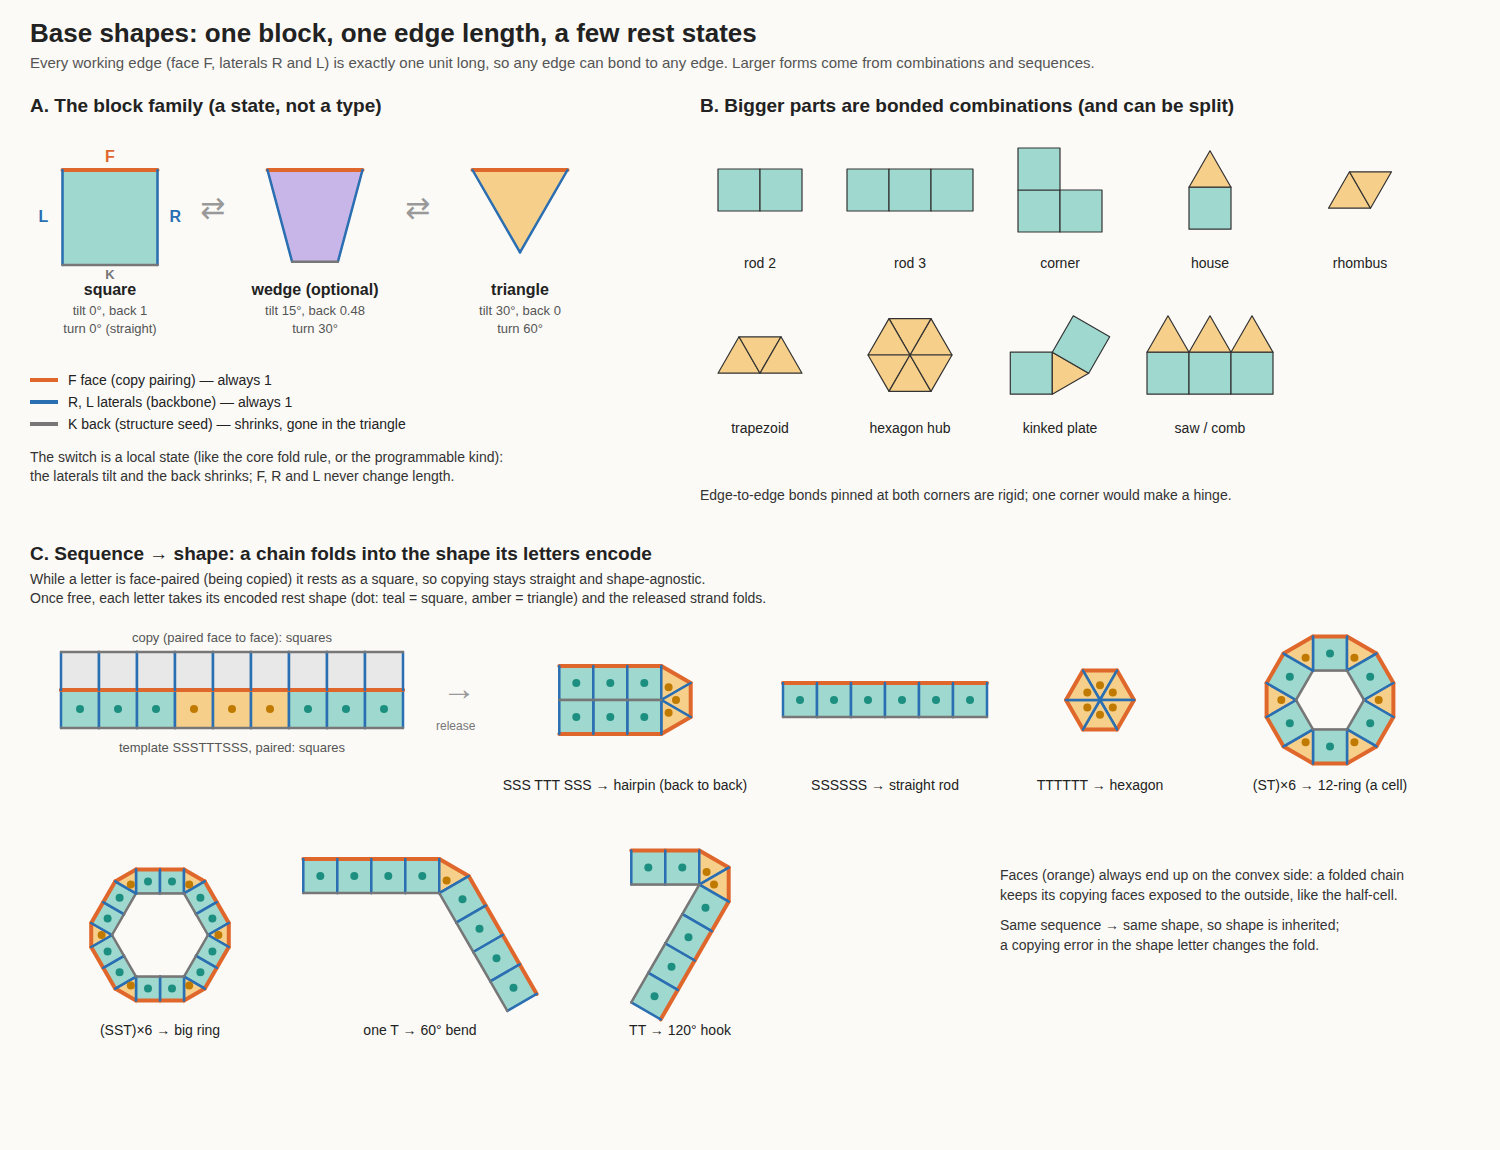
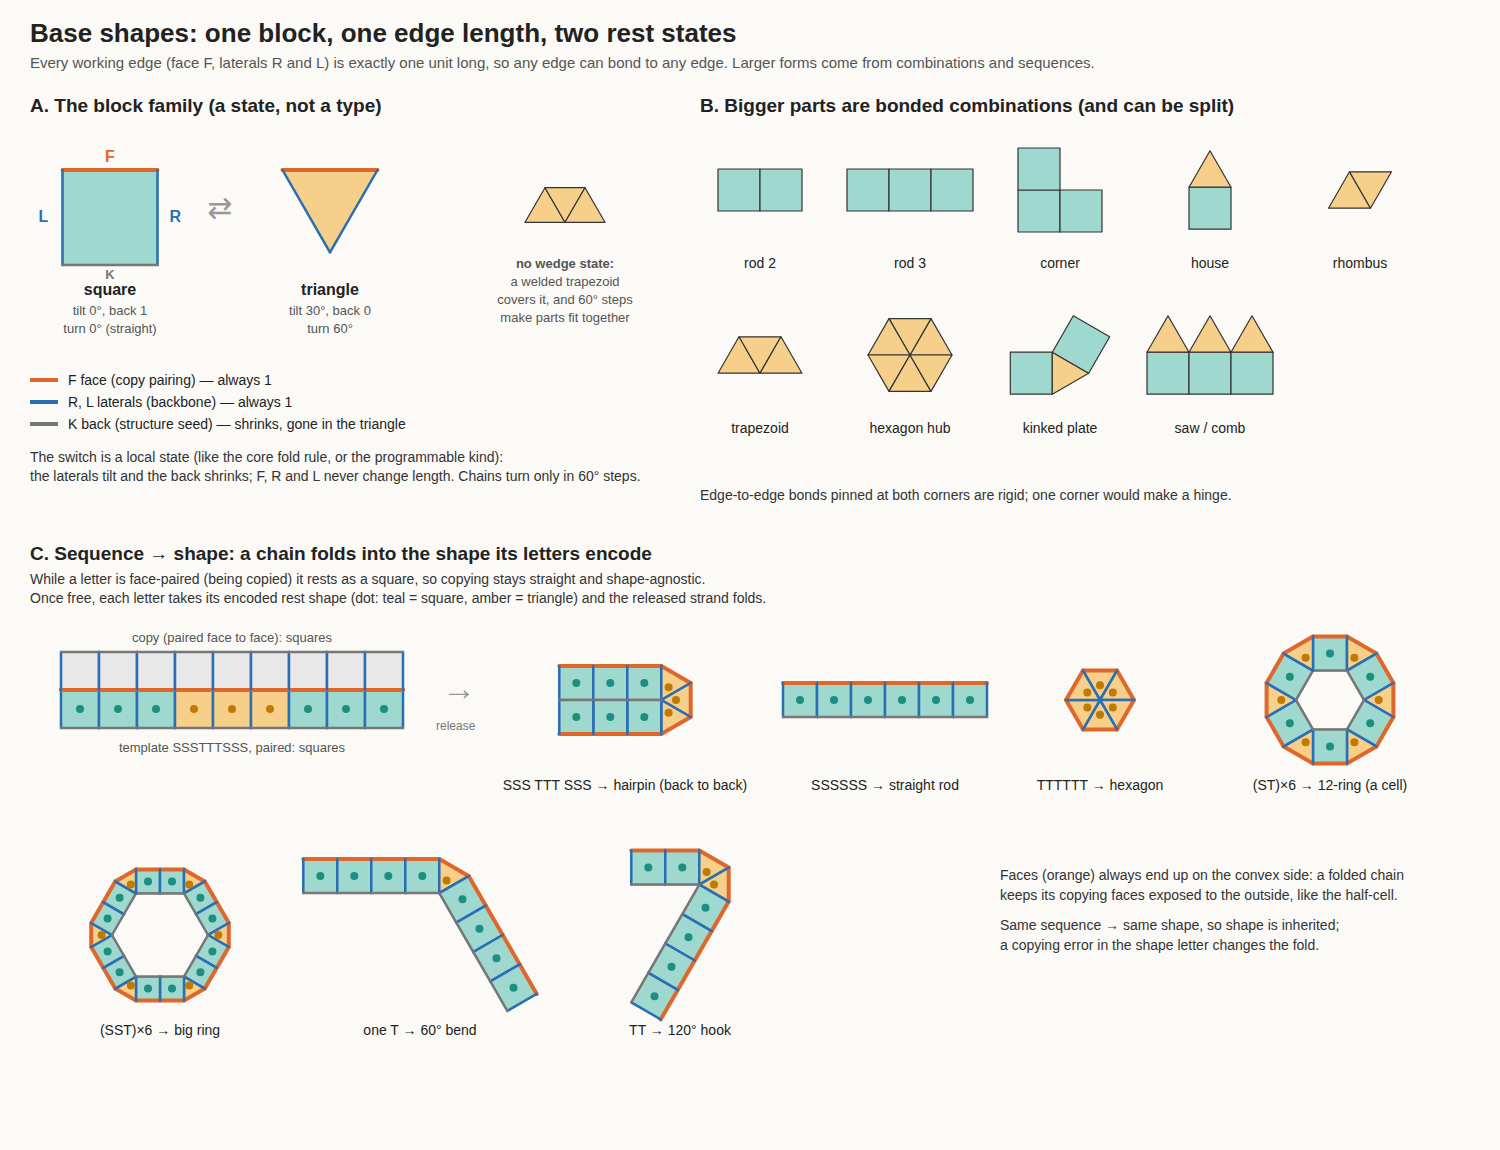
Shape alphabet: drop the wedge state (welded trapezoid instead; 60-degree steps fit together)
Claude-Session: https://claude.ai/code/session_01VtpG8Ywug1D5xVMLg9cFXu

diff --git a/experiments/shape_alphabet_figure.js b/experiments/shape_alphabet_figure.js
@@ -3,7 +3,7 @@
 // One 4-cornered block family: face F and laterals R, L always have unit length (always attachable);
 // the laterals tilt inward by theta and the back K shrinks to 1-2 sin(theta).
 //   theta=0   -> square   (chain goes straight)
-//   theta=15  -> wedge    (turns 30 degrees; optional third state)
+//   (no wedge state: a welded trapezoid of three triangles covers it, and 60-degree steps fit together better)
 //   theta=30  -> triangle (back collapses to a point; turns 60 degrees)
 // Usage: node experiments/shape_alphabet_figure.js [OUT.png]
 const fs=require('fs'),path=require('path'),{execFileSync}=require('child_process');
@@ -56,25 +56,31 @@ function drawPolys(cx,cy,sc,list){const bb=bbox(list.flatMap(p=>p.pts));
   for(const p of list)poly(V,p.pts,p.fill);}
 
 parts.push(`<rect width="${W}" height="${H}" fill="#fbfaf7"/>`);
-txt(30,42,'Base shapes: one block, one edge length, a few rest states',{size:26,weight:'bold'});
+txt(30,42,'Base shapes: one block, one edge length, two rest states',{size:26,weight:'bold'});
 txt(30,68,'Every working edge (face F, laterals R and L) is exactly one unit long, so any edge can bond to any edge. Larger forms come from combinations and sequences.',{size:15,fill:'#555'});
 
 // ---- Panel A: the family ----
 txt(30,112,'A. The block family (a state, not a type)',{size:19,weight:'bold'});
 const sc=95;
-[['S','square','tilt 0°, back 1','turn 0° (straight)'],['W','wedge (optional)','tilt 15°, back 0.48','turn 30°'],['T','triangle','tilt 30°, back 0','turn 60°']].forEach(([k,name,geo,turn],i)=>{
-  const cx=110+i*205,cy=170,V=view(cx,cy,sc);drawBlock(V,block(TILT[k]),COL[k]);
+[['S','square','tilt 0°, back 1','turn 0° (straight)'],['T','triangle','tilt 30°, back 0','turn 60°']].forEach(([k,name,geo,turn],i)=>{
+  const cx=110+i*220,cy=170,V=view(cx,cy,sc);drawBlock(V,block(TILT[k]),COL[k]);
   txt(cx,cy+sc+30,name,{anchor:'middle',weight:'bold'});txt(cx,cy+sc+50,geo,{anchor:'middle',size:13,fill:'#555'});
   txt(cx,cy+sc+68,turn,{anchor:'middle',size:13,fill:'#555'});
   if(i===0){txt(cx,cy-8,'F',{anchor:'middle',fill:FACE,weight:'bold'});txt(cx+sc*.5+12,cy+sc*.55,'R',{fill:LAT,weight:'bold'});
-    txt(cx-sc*.5-24,cy+sc*.55,'L',{fill:LAT,weight:'bold'});txt(cx,cy+sc+14,'K',{anchor:'middle',fill:BACK,weight:'bold',size:13});}
-  if(i<2)txt(cx+103,cy+sc*.5,'⇄',{anchor:'middle',size:30,fill:'#999'});
+    txt(cx-sc*.5-24,cy+sc*.55,'L',{fill:LAT,weight:'bold'});txt(cx,cy+sc+14,'K',{anchor:'middle',fill:BACK,weight:'bold',size:13});
+    txt(cx+110,cy+sc*.5,'⇄',{anchor:'middle',size:30,fill:'#999'});}
 });
+{const t0=reg(3,[0,0],[1,0]),t1=attach(t0,deg(30),3),t2=attach(t1,deg(-30),3);
+  drawPolys(565,205,40,[{pts:t0,fill:COL.T},{pts:t1,fill:COL.T},{pts:t2,fill:COL.T}]);
+  txt(565,268,'no wedge state:',{anchor:'middle',size:13,fill:'#555',weight:'bold'});
+  txt(565,286,'a welded trapezoid',{anchor:'middle',size:13,fill:'#555'});
+  txt(565,304,'covers it, and 60° steps',{anchor:'middle',size:13,fill:'#555'});
+  txt(565,322,'make parts fit together',{anchor:'middle',size:13,fill:'#555'});}
 const ax=30,ay=385;
 [['F face (copy pairing) — always 1',FACE],['R, L laterals (backbone) — always 1',LAT],['K back (structure seed) — shrinks, gone in the triangle',BACK]].forEach(([s,c],i)=>{
   parts.push(`<line x1="${ax}" y1="${ay+i*22-5}" x2="${ax+28}" y2="${ay+i*22-5}" stroke="${c}" stroke-width="4"/>`);txt(ax+38,ay+i*22,s,{size:14});});
 txt(30,462,'The switch is a local state (like the core fold rule, or the programmable kind):',{size:14,fill:'#333'});
-txt(30,481,'the laterals tilt and the back shrinks; F, R and L never change length.',{size:14,fill:'#333'});
+txt(30,481,'the laterals tilt and the back shrinks; F, R and L never change length. Chains turn only in 60° steps.',{size:14,fill:'#333'});
 
 // ---- Panel B: composite parts ----
 txt(700,112,'B. Bigger parts are bonded combinations (and can be split)',{size:19,weight:'bold'});

diff --git a/ROADMAP.md b/ROADMAP.md
@@ -33,7 +33,7 @@ saturates in closed worlds; supply is fixed by the starting soup; motion is pure
 | 7 | **Adhesion and colonies** | Walls with sticky outer ports hold sibling cells together: multicellular groups | Outer wall label that binds other walls; picture of a colony of Ds |
 | 8 | **Predation and theft** | A part that pulls bonds or parts off other organisms: arms races from conserved material | A "hook" part whose contact releases a neighbour's growth bond and captures the part |
 | 9 | **Two-step replication** | The chain seeds a transcript that seeds structures (DNA/RNA-like), decoupling copying from building | A short copied strand that detaches and seeds a structure elsewhere |
-| 10 | **Small shape alphabet (user refinement, 2026-09-30; preferred over pure tiles)** — design drawn (COMPLEXITY_MAP 3e: square/triangle states of one block, square while paired, fold when free); next: build the demo | A few similar-size block shapes that share **unit-length working edges** (face and laterals) and differ in back and angles: square (straight), wedge (curls a run), half-square or triangle (corners). Any of them can be a chain letter, so the **sequence encodes the chain's own shape** (a shape-programmable polymer), and copying stays shape-agnostic. **Switching** is a state: the programmable `kind` selects the rest shape (square or wedge), like the core fold rule, so blanks cover shape supply too and a chain can fold after release. **Bigger parts** are 2–3 squares bonded by existing mechanisms and splittable; intentional length comes from copying ("rod genes": short chains copied and released as parts, backlog 9) | A chain with square and wedge letters copies faithfully and each copy folds to the shape its sequence encodes; then a blank square reprogrammed to a wedge |
+| 10 | **Small shape alphabet (user refinement, 2026-09-30; preferred over pure tiles)** — design drawn (COMPLEXITY_MAP 3e: square/triangle states of one block, no wedge, square while paired, fold when free); next: build the demo | A few similar-size block shapes that share **unit-length working edges** (face and laterals) and differ in back and angles: square (straight), wedge (curls a run), half-square or triangle (corners). Any of them can be a chain letter, so the **sequence encodes the chain's own shape** (a shape-programmable polymer), and copying stays shape-agnostic. **Switching** is a state: the programmable `kind` selects the rest shape (square or wedge), like the core fold rule, so blanks cover shape supply too and a chain can fold after release. **Bigger parts** are 2–3 squares bonded by existing mechanisms and splittable; intentional length comes from copying ("rod genes": short chains copied and released as parts, backlog 9) | A chain with square and wedge letters copies faithfully and each copy folds to the shape its sequence encodes; then a blank square reprogrammed to a wedge |
 | 10b | **Universal tiles and welding** (earlier variant) | Labels can be reprogrammed (blanks), but shapes cannot. Universal small tiles (equilateral triangles, or unit squares plus half-square triangles) weld edge to edge into custom parts; a weld pinned at both corners of a shared edge is rigid in 2D, one corner makes a hinge. Welds are durable but broken by hot zones or an unwelding port. Welding only where a **jig** (a chain-seeded structure) holds tiles in place, so part length and form come from the organism (a mould), not from chance. Free tiles are universal supply; the environment recycles unused parts. Unifies shape supply with label supply (blanks become tiles, enzymes become jigs and writers) | Triangles only; a jig holds two free triangles edge to edge, they weld into a rhombus, the rhombus is released and seeds ordinary growth elsewhere. Picture of tiles becoming parts becoming structures |
 | 11 | **Enclosure with copying inside** | A real compartment: wall around the chain, with parts entering through gates | Full ring wall with a gate part that admits letters |
 

diff --git a/docs/COMPLEXITY_MAP.md b/docs/COMPLEXITY_MAP.md
@@ -130,8 +130,10 @@ Stay simple and general; complex forms should come from combinations and sequenc
 - **One family, not several types.** A 4-cornered block whose face F and laterals R, L are
   always exactly one unit long, so any working edge can bond to any other. Its state tilts
   the laterals inward by an angle and shrinks the back K to `1 - 2 sin(tilt)`:
-  **square** (tilt 0, straight), **triangle** (tilt 30°, back collapses, turns 60°),
-  optionally a **wedge** (tilt 15°, turns 30°). No vertex count changes: the triangle is the
+  **square** (tilt 0, straight) and **triangle** (tilt 30°, back collapses, turns 60°).
+  **No wedge state** (user, 2026-09-30): a welded trapezoid of three triangles covers that
+  role, and restricting chain turns to 60° steps keeps folded chains and parts on a few shared
+  directions, so structures fit together edge to edge more easily. No vertex count changes: the triangle is the
   square with a zero-length back, so the switch is a rest-shape reset like the core fold.
   A tiny nonzero back (about 0.05) is safer numerically than exact collapse.
 - **Why squares and triangles.** Both have unit edges and similar size. Together they give

diff --git a/docs/INNOVATIONS.md b/docs/INNOVATIONS.md
@@ -8,7 +8,7 @@ screens), **partial**, **not yet**. Batches and their numbers live in RESULTS/LE
 
 - **Base-shape alphabet** (design, user direction) — not yet built. One block family with unit
   face and lateral edges; its state tilts the laterals and shrinks the back: square (straight),
-  triangle (60° turn), optional wedge. Parts are bonded combinations. Chains fold into the shape their
+  triangle (60° turn); no wedge (a welded trapezoid covers it, and 60° steps fit together better). Parts are bonded combinations. Chains fold into the shape their
   sequence encodes: letters stay square while face-paired and fold when free. Picture:
   `experiments/out/SHAPES_alphabet_20260930.png`; details in COMPLEXITY_MAP 3e. Next: `shapeStates`
   demo (hairpins, hexagon rings).

diff --git a/docs/NEXT_INSTANCE.md b/docs/NEXT_INSTANCE.md
@@ -28,7 +28,7 @@ backlog; take the top unblocked item.
 - Funnel: tune lean and length so both blades point at the copying face (some splay outward).
 - **Next build (user focus): the base-shape alphabet** (COMPLEXITY_MAP 3e, picture
   `experiments/out/SHAPES_alphabet_20260930.png`). One block family (unit face and laterals, back shrinks):
-  square / triangle states; a letter rests square while its face is bonded and folds to its encoded
+  square / triangle states only (no wedge: welded trapezoids instead, 60° steps fit better); a letter rests square while its face is bonded and folds to its encoded
   shape when free. Demo: SSSTTTSSS copies fold into hairpins, TTTTTT into hexagons.
 
 ## User ideas to keep (also in ROADMAP/IDEAS)
